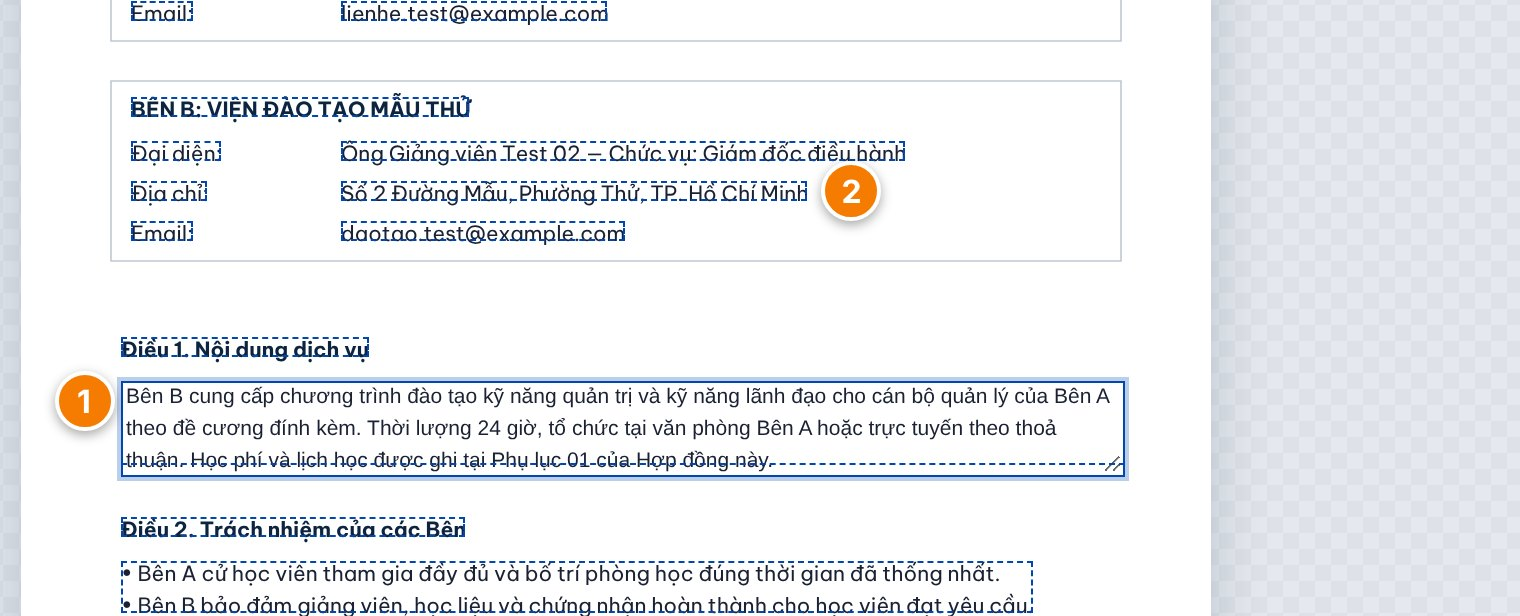
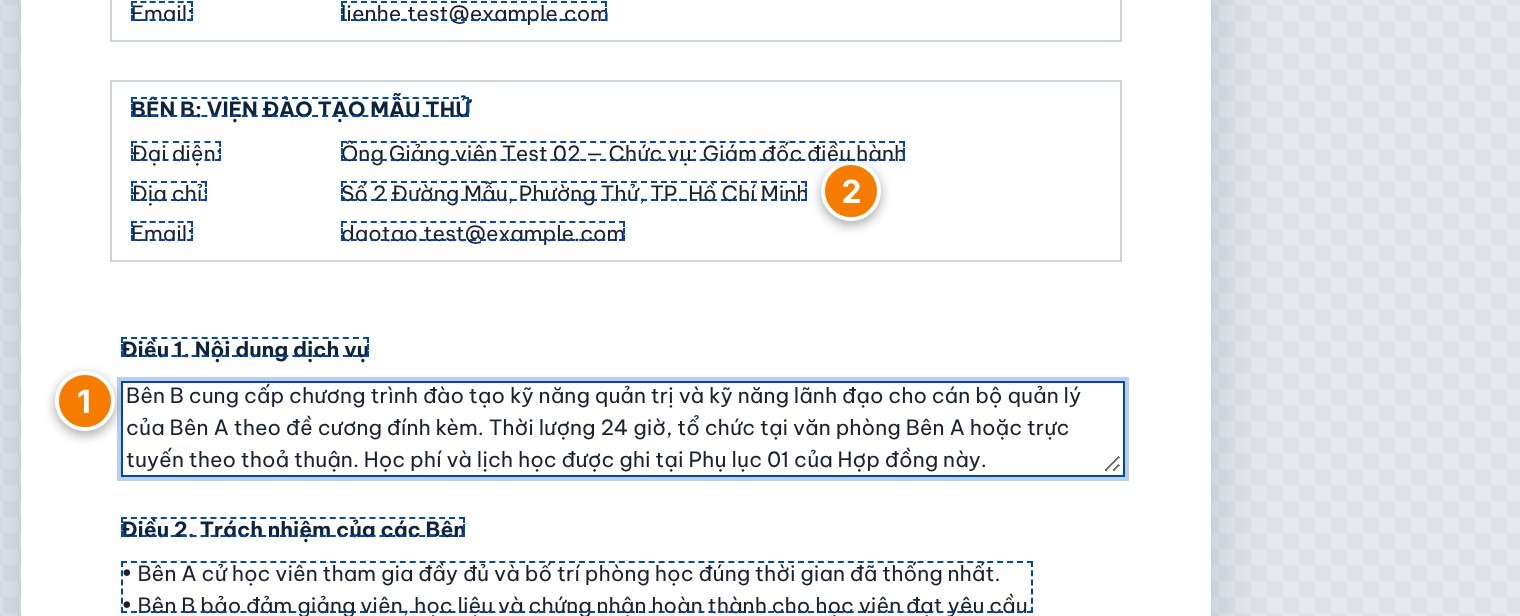
docs(guide): describe label lines, single-line extension and Tinos after F-16 to F-18b
Re-shoot screenshot 26 (Be Vietnam Pro in the editor, no dashed line
across it), document that 'Label: value' lines are edited separately,
single lines extend to free space before wrapping, Times New Roman with
Vietnamese exports as Tinos, and add a FAQ about font substitution.

Claude-Session: https://claude.ai/code/session_01J4j3HtUKRCDDGj52C9EpEb

Changed region(s): [[0.0618, 0.6169, 0.7421, 0.7711]]

diff --git a/public/huong-dan/index.html b/public/huong-dan/index.html
@@ -218,8 +218,9 @@
     <ul>
       <li><kbd>Enter</kbd> để lưu, <kbd>Shift</kbd> + <kbd>Enter</kbd> để xuống dòng, <kbd>Esc</kbd> để huỷ.</li>
       <li>Một <b>đoạn văn nhiều dòng</b> được nhận thành một khối: sửa cả đoạn một lần, ô sửa tự giãn khi gõ thêm.</li>
-      <li>Ô trong <b>bảng hoặc biểu mẫu</b> (nhãn | giá trị) vẫn sửa riêng từng ô.</li>
-      <li>Chữ mới giữ <b>font, cỡ, đậm/nghiêng và màu</b> của chữ gốc. Chữ dài hơn sẽ <b>tự xuống dòng</b> với cùng cỡ chữ, không bị thu nhỏ.</li>
+      <li>Ô trong <b>bảng hoặc biểu mẫu</b> (nhãn | giá trị) và các dòng dạng <b>"Nhãn: giá trị"</b> (vd. <i>Kính gửi: …</i>, <i>Địa chỉ: …</i>) được sửa riêng từng dòng.</li>
+      <li>Chữ mới giữ <b>font, cỡ, đậm/nghiêng và màu</b> của chữ gốc. Văn bản dùng Times New Roman có dấu tiếng Việt được xuất bằng font có chân tương đương (Tinos).</li>
+      <li>Chữ dài hơn bản cũ: <b>một dòng</b> (tiêu đề, dòng đơn) được kéo dài sang phải tới chỗ trống rồi mới xuống dòng; <b>đoạn văn</b> tự xuống dòng trong bề rộng đoạn. Cỡ chữ giữ nguyên, không bị thu nhỏ.</li>
     </ul>
     <figure>
       <a class="zoomable" href="img/26-pdf-sua-doan.jpg" target="_blank" rel="noopener" title="Bấm để xem ảnh kích thước đầy đủ"><img src="img/26-pdf-sua-doan.jpg" alt="Đang sửa đoạn Điều 1 trong một ô nhiều dòng; các ô của bảng Bên B có khung riêng" loading="lazy" width="1520" height="616"></a>
@@ -429,6 +430,8 @@
       <p>Gợi ý dựa trên các nhãn thường gặp trong mẫu hợp đồng (Bên A/B, Đại diện, Chức vụ, Giấy ủy quyền số, Hợp đồng số). Mẫu khác có thể bị sót: tự thêm ở thẻ <i>Pháp nhân &amp; người đại diện</i> hoặc <i>Thay thế từ khoá</i>. Mục nhận nhầm thì bỏ chọn trước khi bấm <i>Thêm các mục đã chọn</i>.</p></details>
     <details><summary>Danh sách từ khoá có được lưu lại cho lần sau không?</summary>
       <p>Không. Danh sách chỉ tồn tại trong phiên làm việc, không lưu trên trình duyệt hay máy chủ và không ghi vào nhật ký — vì từ khoá thường là tên thật. Có thể giữ danh sách trong một file văn bản nội bộ rồi dùng nút <i>Dán danh sách</i>.</p></details>
+    <details><summary>Chữ sửa xong trông khác font các dòng bên cạnh?</summary>
+      <p>Công cụ nhận font gốc và dùng font tương đương có sẵn: Be Vietnam Pro, Arimo (thay Arial/Helvetica khi có dấu), Tinos (thay Times New Roman khi có dấu). Font khác (vd. font riêng của doanh nghiệp) sẽ được thay bằng font gần nhất trong số này. Cần giữ đúng font gốc thì sửa ở file gốc (Word…) rồi xuất lại PDF.</p></details>
     <details><summary>Vì sao danh sách font không còn Noto Sans?</summary>
       <p>Font Noto Sans gây lỗi khi copy/tìm kiếm chữ có dấu nặng trong file PDF xuất ra. Ô chữ cũ dùng Noto Sans sẽ được xuất bằng Arimo.</p></details>
     <details><summary>Xoay hay xoá trang xong muốn quay lại?</summary>
